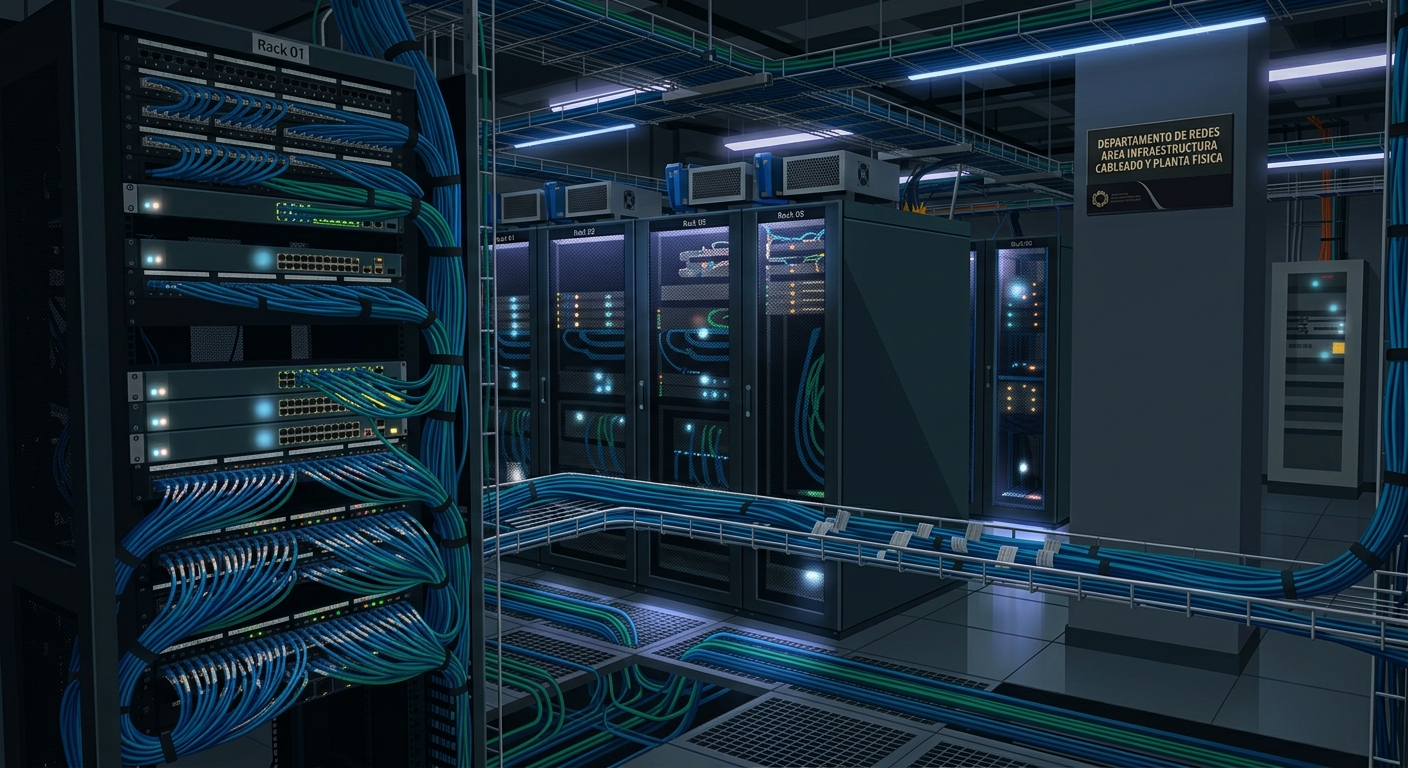
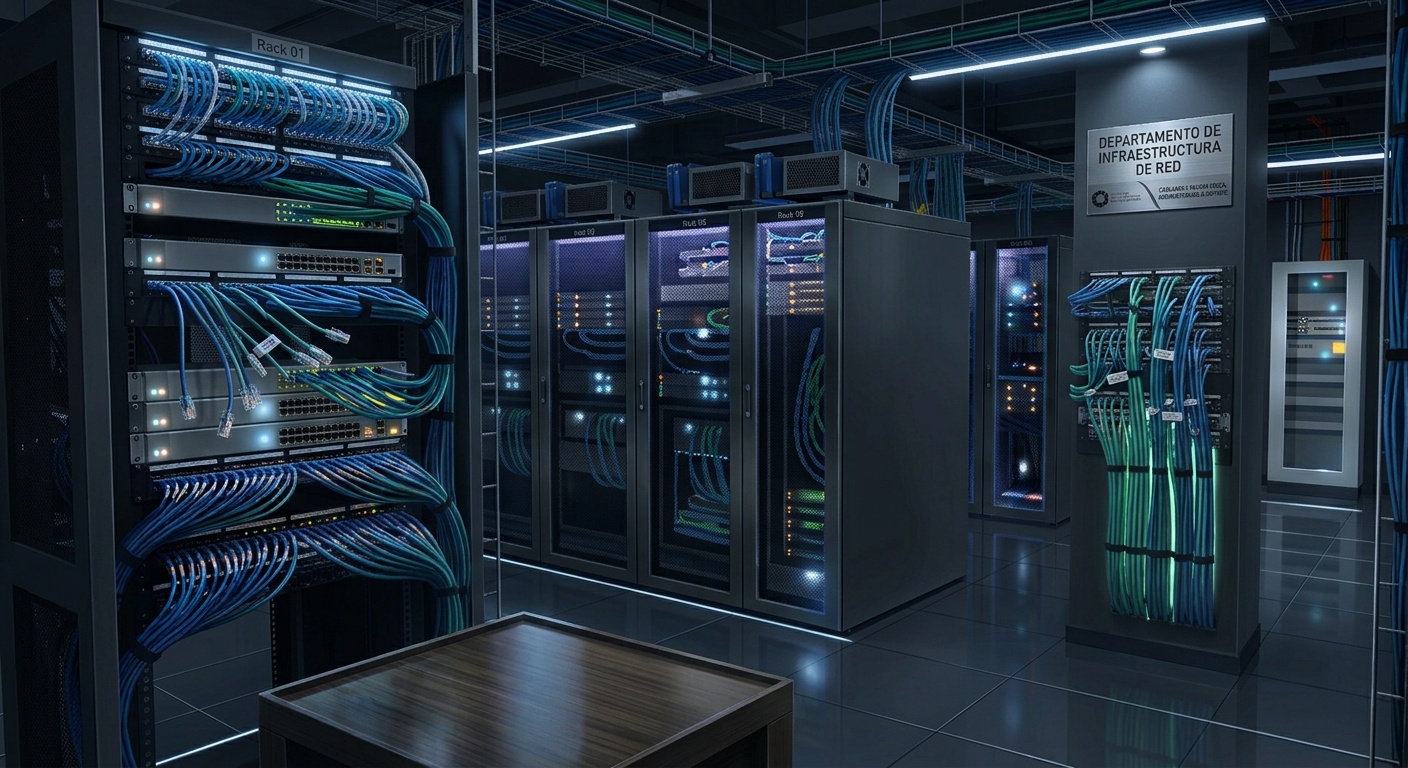
Se preparan fondos a implementar

diff --git a/sw.js b/sw.js
@@ -1,5 +1,5 @@
-const CACHE_NAME = 'idr-suite-260916.2030';
-const RUNTIME_CACHE = 'idr-runtime-260916.2030';
+const CACHE_NAME = 'idr-suite-260917.0045';
+const RUNTIME_CACHE = 'idr-runtime-260917.0045';
 
 const PRECACHE_URLS = [
   // ── Launcher (Portada) ──
@@ -13,6 +13,8 @@ const PRECACHE_URLS = [
   './icons/icon-192.png',
   './icons/icon-512.png',
   './icons/icon-1024.png',
+  './img/cco.jpeg',
+  './img/cco_black.jpeg',
 
   // ── SGC (CCTV) ──
   './SGC/',
